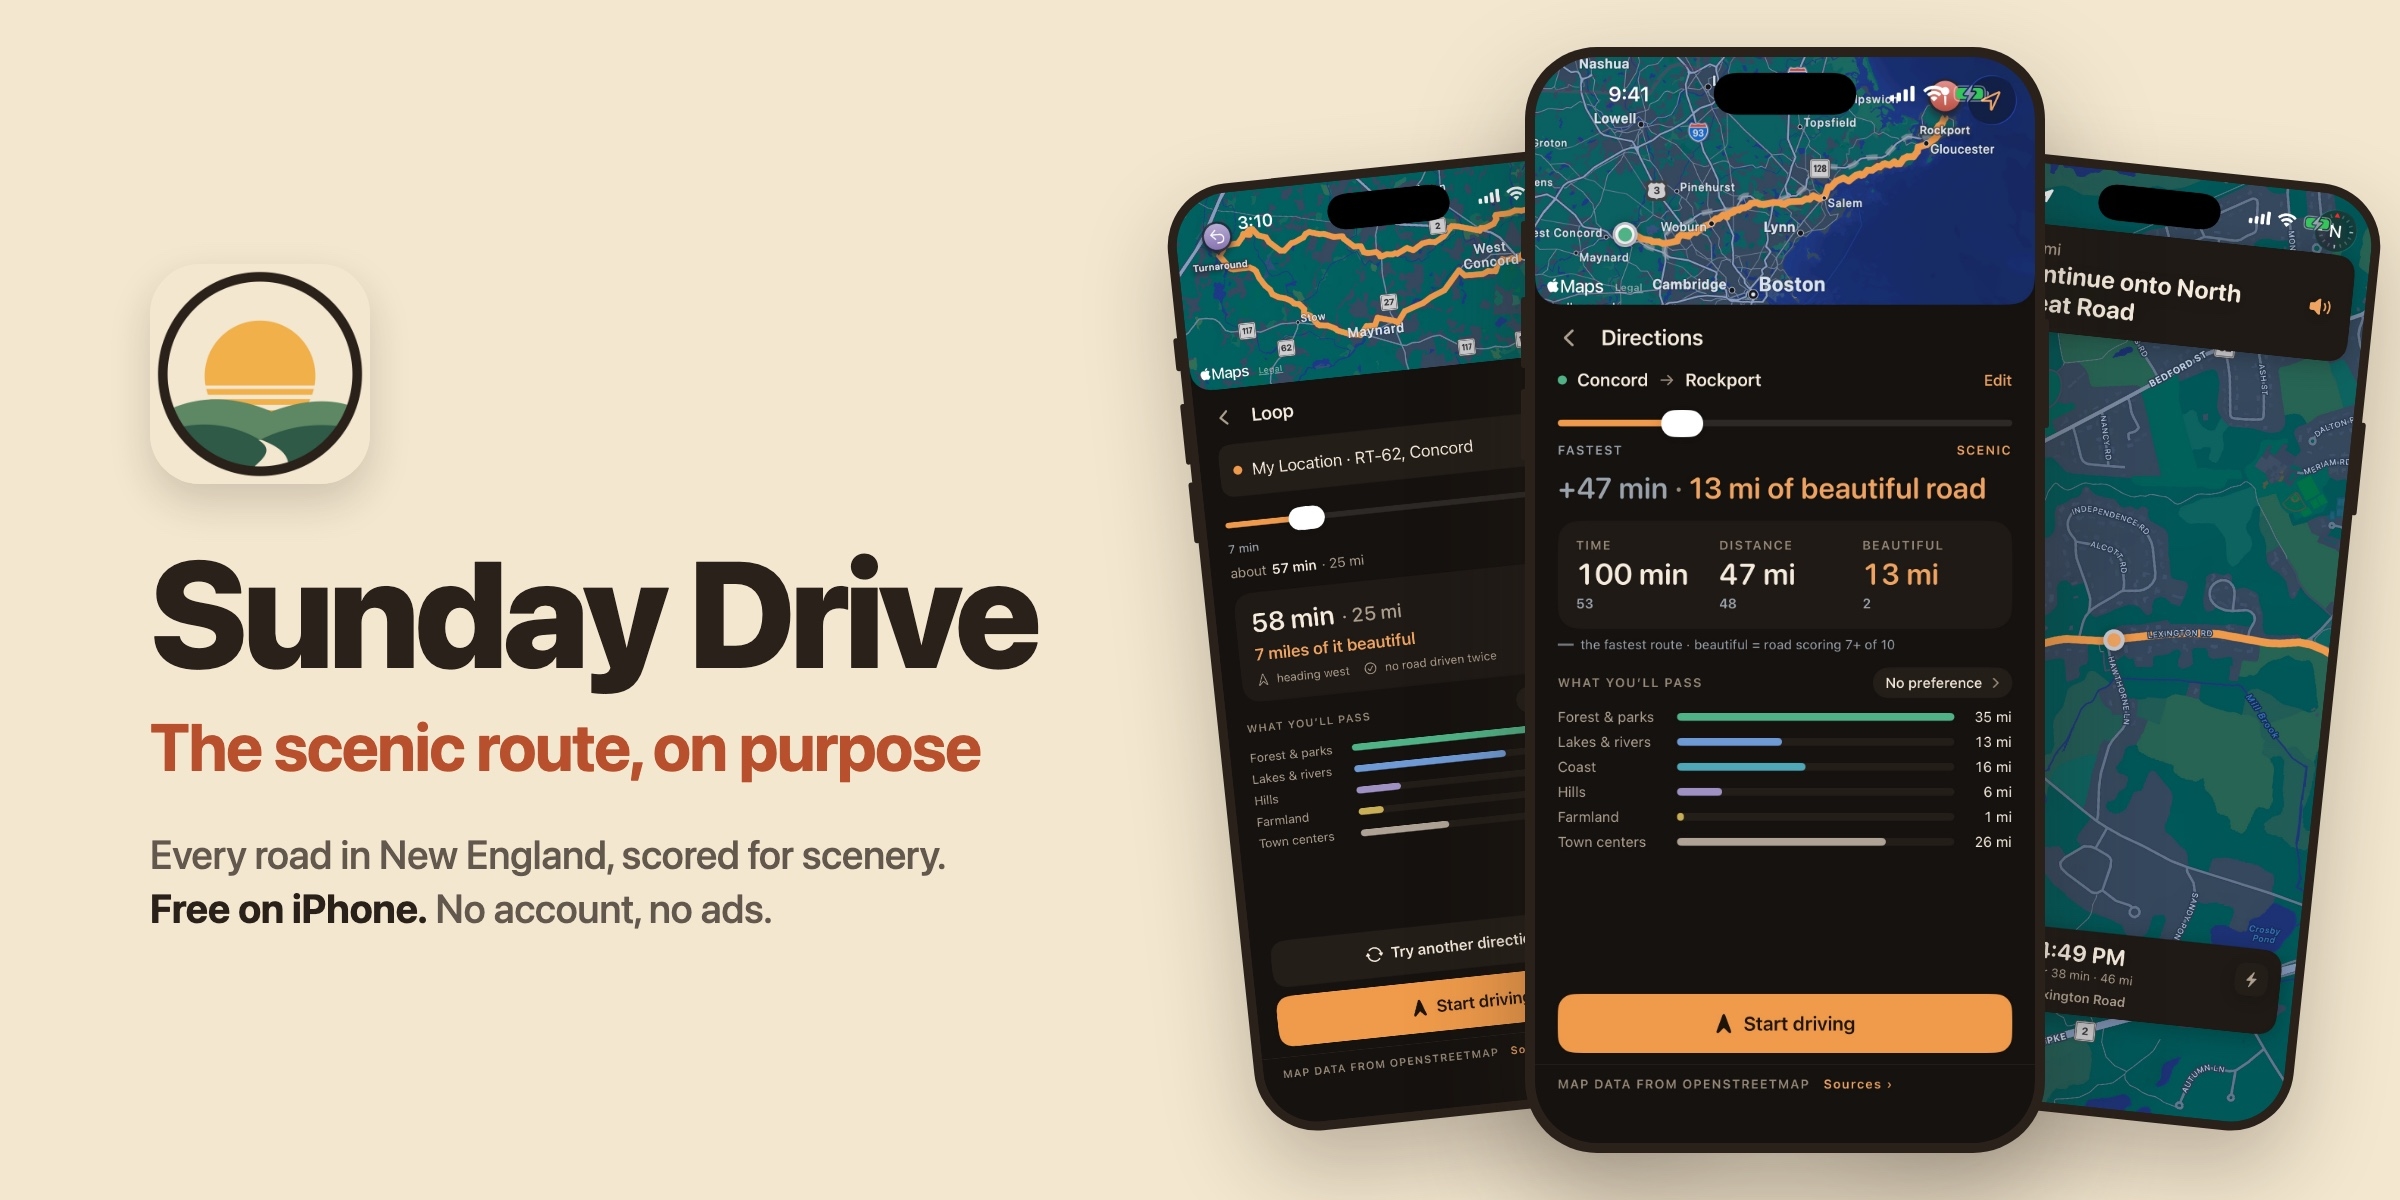
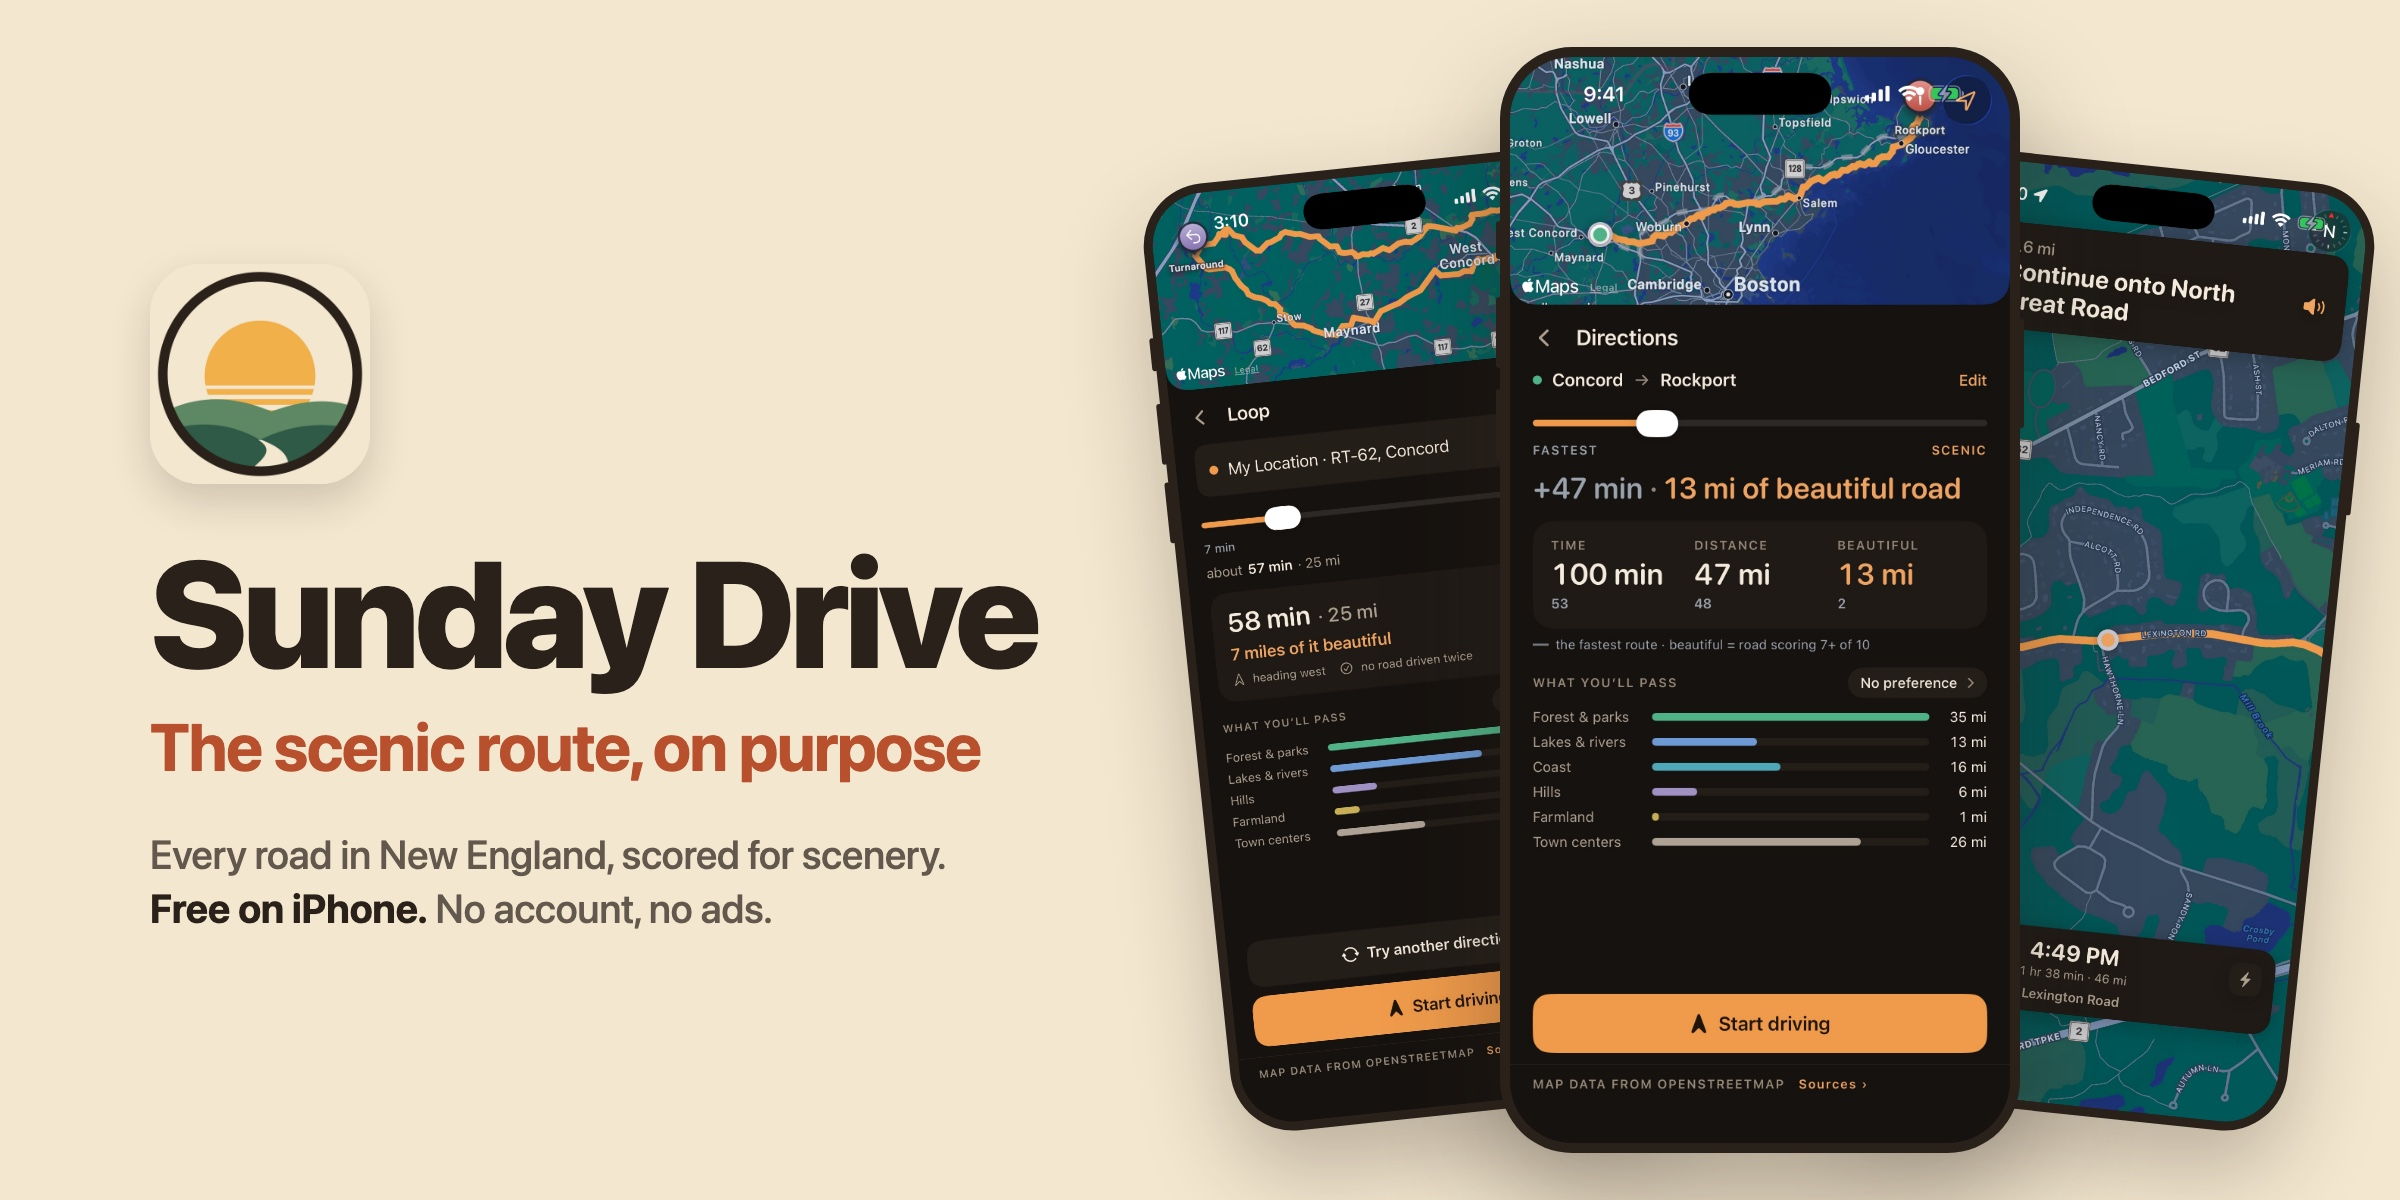
Make the App Store Connect Header and Search Results assets
The Header slot takes 3840x1646 (or 5244x2950 PNG) and refused the
2400x1200 banner's .jpg; Search Results takes 3:2 up to 3840x2560. Both
are opaque PNGs and drop "Free", since the creative-asset rules ban
pricing. The banner stays for the landing page and posts.

diff --git a/app-store-screenshots/build.py b/app-store-screenshots/build.py
@@ -6,6 +6,9 @@ Reads the four raw 6.9" captures beside this file (1320 x 2868) and writes
                                  whole capture in a phone outline below it
     header-banner.jpg            2400 x 1200: icon, name and subtitle beside
                                  three phones, for the landing page and posts
+    app-store-header-3840x1646.png          App Store Connect's Header and
+    app-store-search-results-3840x2560.png  Search Results assets (iOS 27
+                                 creative assets): headline beside the phones
     search-preview-light.png     the first three as an App Store search result
     search-preview-dark.png      would show them, at iPhone 16 Pro size (@3x)
 
@@ -114,34 +117,64 @@ p{{margin:34px 0 0;font-size:50px;line-height:1.3;font-weight:500;color:rgba(43,
 </body></html>"""
 
 
-BANNER_W, BANNER_H = 2400, 1200
+def phone_height(screen_w):
+    return round(screen_w * H / W) + 2 * round(screen_w / 50)
 
 
-def banner_page():
-    """The header banner: icon, name and subtitle left, three phones right."""
-    small, big = 430, 500
-    def h(w):
-        return round(w * H / W) + 2 * round(w / 50)
-    mid_top = (BANNER_H - h(big)) // 2
-    side_top = (BANNER_H - h(small)) // 2 + 40
+def promo_page(w, h, copy_html, big, small, cx, text_left, text_w, scale):
+    """Text left, three phones fanned right: route comparison in front, the
+    loop and the drive tilted behind it. Every phone is shown whole.
+
+    `scale` sizes the type against the 2400 x 1200 banner it was drawn for.
+    """
+    mid_top = (h - phone_height(big)) // 2
+    side_top = (h - phone_height(small)) // 2 + round(40 * scale)
+    left = cx - big // 2 - round(small * .73)
+    right = cx + big // 2 - round(small * .27)
+    f = lambda px: round(px * scale)
     return f"""<!doctype html><html><head><meta charset="utf-8"><style>
-html,body{{margin:0;width:{BANNER_W}px;height:{BANNER_H}px;overflow:hidden;background:{CREAM}}}
+html,body{{margin:0;width:{w}px;height:{h}px;overflow:hidden;background:{CREAM}}}
 body{{font-family:-apple-system,"SF Pro Display",system-ui,sans-serif;color:{INK};position:relative}}
-.copy{{position:absolute;left:150px;top:0;bottom:0;width:900px;display:flex;flex-direction:column;justify-content:center}}
-.copy img{{width:220px;height:220px;border-radius:50px;box-shadow:0 18px 40px rgba(43,33,27,.18)}}
-h1{{margin:56px 0 0;font-size:150px;line-height:1;font-weight:800;letter-spacing:-0.03em}}
-h2{{margin:22px 0 0;font-size:66px;line-height:1.1;font-weight:700;color:{RUST};letter-spacing:-0.015em}}
-p{{margin:44px 0 0;font-size:40px;line-height:1.35;font-weight:500;color:rgba(43,33,27,.72)}}
+.copy{{position:absolute;left:{text_left}px;top:0;bottom:0;width:{text_w}px;display:flex;flex-direction:column;justify-content:center}}
+.copy img{{width:{f(220)}px;height:{f(220)}px;border-radius:{f(50)}px;box-shadow:0 {f(18)}px {f(40)}px rgba(43,33,27,.18);margin-bottom:{f(56)}px}}
+h1{{margin:0;font-size:{f(150)}px;line-height:1;font-weight:800;letter-spacing:-0.03em}}
+h1 em{{font-style:normal;color:{RUST};display:block}}
+h2{{margin:{f(22)}px 0 0;font-size:{f(66)}px;line-height:1.1;font-weight:700;color:{RUST};letter-spacing:-0.015em}}
+p{{margin:{f(44)}px 0 0;font-size:{f(40)}px;line-height:1.35;font-weight:500;color:rgba(43,33,27,.72)}}
 p b{{color:{INK};font-weight:700}}
 {phone_css()}
+.phone{{box-shadow:0 {f(40)}px {f(90)}px rgba(43,33,27,.28)}}
 </style></head><body>
-<div class="copy"><img src="{ICON.as_uri()}">
-<h1>{NAME}</h1><h2>{SUBTITLE}</h2>
-<p>Every road in New England, scored for scenery.<br><b>Free on iPhone.</b> No account, no ads.</p></div>
-{phone_html(HERE / SHOTS[1][0], small, 1210, side_top, "transform:rotate(-6deg)")}
-{phone_html(HERE / SHOTS[2][0], small, 1890, side_top, "transform:rotate(6deg)")}
-{phone_html(HERE / SHOTS[0][0], big, 1525, mid_top, "z-index:2;box-shadow:0 50px 110px rgba(43,33,27,.35)")}
+<div class="copy">{copy_html}</div>
+{phone_html(HERE / SHOTS[1][0], small, left, side_top, "transform:rotate(-6deg)")}
+{phone_html(HERE / SHOTS[2][0], small, right, side_top, "transform:rotate(6deg)")}
+{phone_html(HERE / SHOTS[0][0], big, cx - big // 2, mid_top, f"z-index:2;box-shadow:0 {f(50)}px {f(110)}px rgba(43,33,27,.35)")}
 </body></html>"""
+
+
+# Copy for the App Store's own placements. Apple's creative-asset rules ban
+# pricing ("Free"), URLs and other platforms, and the store already shows the
+# icon, name and subtitle beside them, so these lead with the headline.
+STORE_COPY = (f'<h1>Trade minutes for <em>the view</em></h1>'
+              f'<p>Every road in New England, scored for scenery.</p>')
+
+# (file, width, height, copy, front phone, side phones, phones' centre x,
+#  text left, text width, type scale). Focal content stays inside the middle
+# of each canvas, because Apple crops these per device and publishes no
+# safe-area numbers, only "design around a centred safe area".
+PROMOS = [
+    # Social and landing page; not an App Store asset, so it may say "Free".
+    ("header-banner.jpg", 2400, 1200,
+     f'<img src="{ICON.as_uri()}"><h1>{NAME}</h1><h2>{SUBTITLE}</h2>'
+     f'<p>Every road in New England, scored for scenery.<br><b>Free on iPhone.</b> No account, no ads.</p>',
+     500, 430, 1750, 150, 900, 1.0),
+    # App Store Connect, Header: 21:9 at 3840 x 1646.
+    ("app-store-header-3840x1646.png", 3840, 1646, STORE_COPY,
+     640, 550, 2590, 560, 1300, 1.55),
+    # App Store Connect, Search Results: 3:2 at its 3840 x 2560 maximum.
+    ("app-store-search-results-3840x2560.png", 3840, 2560, STORE_COPY,
+     940, 800, 2600, 330, 1000, 1.75),
+]
 
 
 def search_page(shots, dark):
@@ -242,13 +275,15 @@ def main():
         png.unlink()
         finished.append(jpg)
         print(jpg.relative_to(REPO))
-    banner = HERE / "header-banner.png"
-    render(banner_page(), banner, BANNER_W, BANNER_H)
-    jpg = banner.with_suffix(".jpg")
-    subprocess.run(["sips", "-s", "format", "jpeg", "-s", "formatOptions", "92",
-                    str(banner), "--out", str(jpg)], check=True, capture_output=True)
-    banner.unlink()
-    print(jpg.relative_to(REPO))
+    for name, w, h, copy_html, big, small, cx, text_left, text_w, scale in PROMOS:
+        out = HERE / name
+        png = out.with_suffix(".png")
+        render(promo_page(w, h, copy_html, big, small, cx, text_left, text_w, scale), png, w, h)
+        if out.suffix == ".jpg":
+            subprocess.run(["sips", "-s", "format", "jpeg", "-s", "formatOptions", "92",
+                            str(png), "--out", str(out)], check=True, capture_output=True)
+            png.unlink()
+        print(out.relative_to(REPO))
     for dark in (False, True):
         out = HERE / f"search-preview-{'dark' if dark else 'light'}.png"
         render(search_page(finished[:3], dark), out, 390, 844, scale=3)
